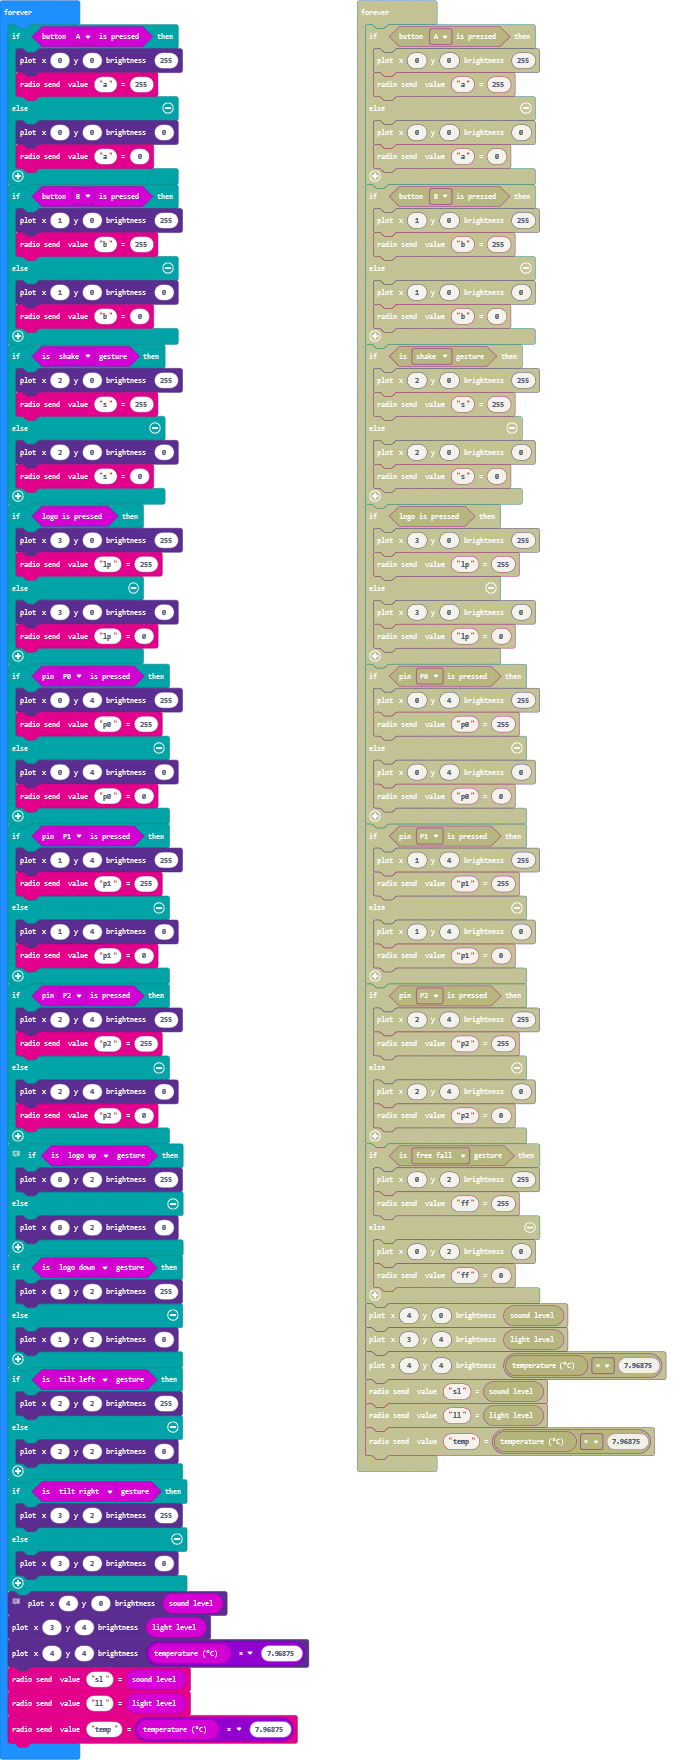
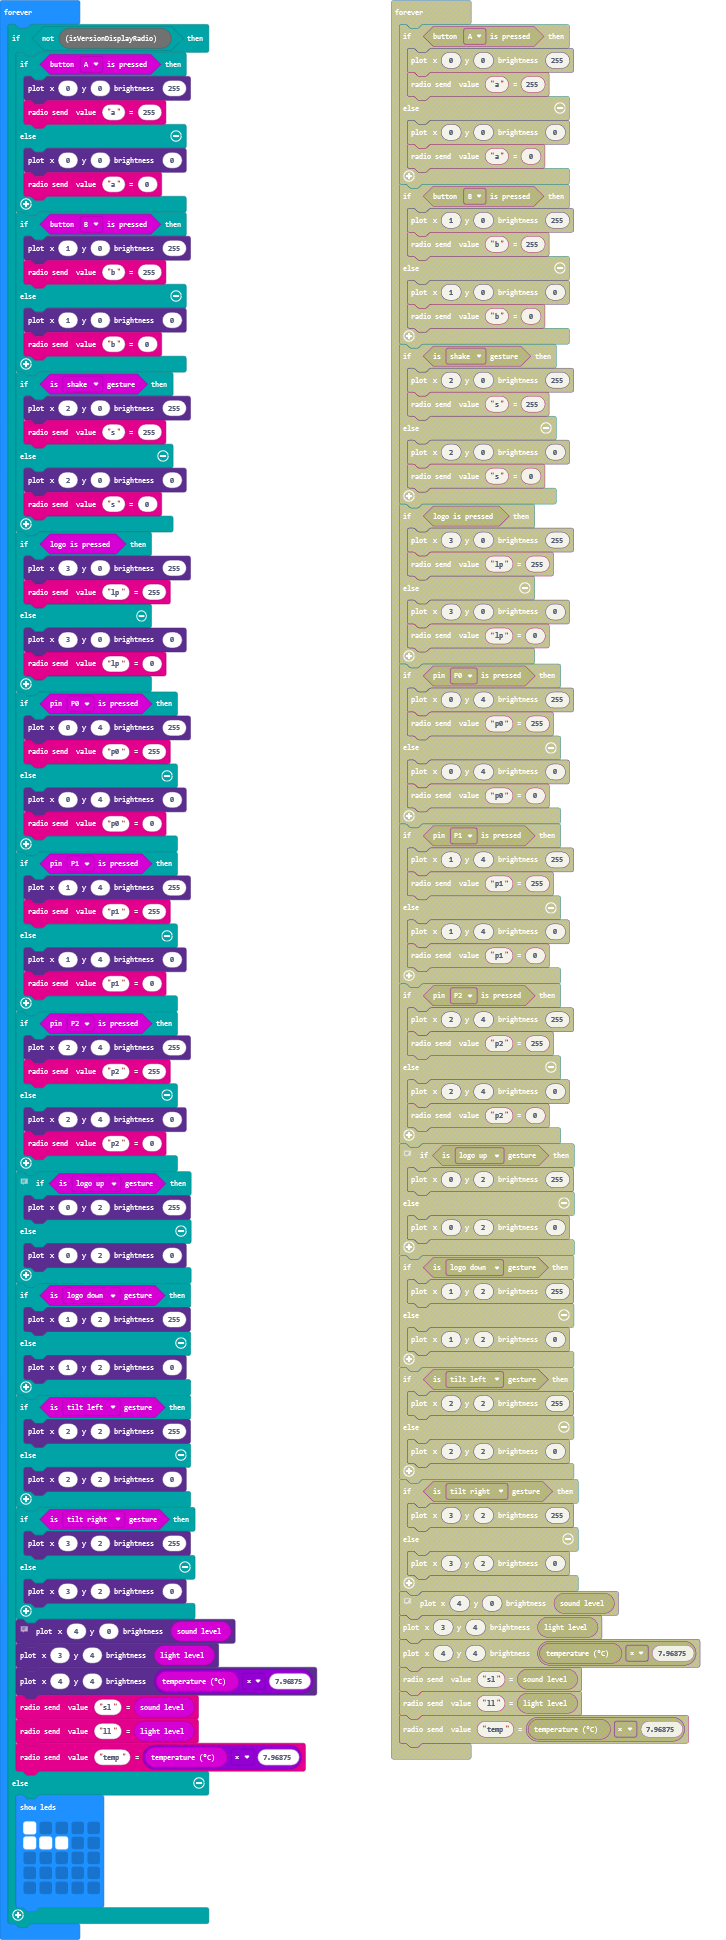
Abandon VersionChecker

diff --git a/main.ts b/main.ts
@@ -1,110 +1,80 @@
-let isVersionDisplay = false
-
 basic.forever(function () {
-
-    if (!isVersionDisplay) {
-
-        if (input.buttonIsPressed(Button.A)) {
-            led.plotBrightness(0, 0, 255)
-            radio.sendValue("a", 255)
-        } else {
-            led.plotBrightness(0, 0, 0)
-            radio.sendValue("a", 0)
-        }
-
-        if (input.buttonIsPressed(Button.B)) {
-            led.plotBrightness(1, 0, 255)
-            radio.sendValue("b", 255)
-        } else {
-            led.plotBrightness(1, 0, 0)
-            radio.sendValue("b", 0)
-        }
-
-        if (input.isGesture(Gesture.Shake)) {
-            led.plotBrightness(2, 0, 255)
-           radio.sendValue("s", 255)
-        } else {
-            led.plotBrightness(2, 0, 0)
-            radio.sendValue("s", 0)
-        }
-
-        if (input.logoIsPressed()) {
-           led.plotBrightness(3, 0, 255)
-            radio.sendValue("lp", 255)
-        } else {
-            led.plotBrightness(3, 0, 0)
-            radio.sendValue("lp", 0)
-        }
-
-        if (input.pinIsPressed(TouchPin.P0)) {
-            led.plotBrightness(0, 4, 255)
-            radio.sendValue("p0", 255)
-        } else {
-            led.plotBrightness(0, 4, 0)
-            radio.sendValue("p0", 0)
-        }
-
-        if (input.pinIsPressed(TouchPin.P1)) {
-            led.plotBrightness(1, 4, 255)
-            radio.sendValue("p1", 255)
-        } else {
-            led.plotBrightness(1, 4, 0)
-            radio.sendValue("p1", 0)
-        }
-
-        if (input.pinIsPressed(TouchPin.P2)) {
-            led.plotBrightness(2, 4, 255)
-            radio.sendValue("p2", 255)
-        } else {
-            led.plotBrightness(2, 4, 0)
-            radio.sendValue("p2", 0)
-        }
-
-        // These last few ifs have no radio sending, 
-        // this is because we don't have the space on the line to send the data over to another Micro:Bit
-
-        if (input.isGesture(Gesture.LogoUp)) {
-            led.plotBrightness(0, 2, 255)
-        } else {
-            led.plotBrightness(0, 2, 0)
-        }
-
-        if (input.isGesture(Gesture.LogoDown)) {
-            led.plotBrightness(1, 2, 255)
-        } else {
-            led.plotBrightness(1, 2, 0)
-        }
-
-        if (input.isGesture(Gesture.TiltLeft)) {
-            led.plotBrightness(2, 2, 255)
-        } else {
-            led.plotBrightness(2, 2, 0)
-        }
-
-        if (input.isGesture(Gesture.TiltRight)) {
-            led.plotBrightness(3, 2, 255)
-        } else {
-            led.plotBrightness(3, 2, 0)
-        }
-
-        // No pixel setting on 4, 2 because the events I had planned didn't work, unfortunately.
-
-        led.plotBrightness(4, 0, input.soundLevel())
-        led.plotBrightness(3, 4, input.lightLevel())
-        led.plotBrightness(4, 4, input.temperature() * 7.96875)
-
-        radio.sendValue("sl", input.soundLevel())
-        radio.sendValue("ll", input.lightLevel())
-        radio.sendValue("temp", input.temperature() * 7.96875)
+    if (input.buttonIsPressed(Button.A)) {
+        led.plotBrightness(0, 0, 255)
+        radio.sendValue("a", 255)
+    } else {
+        led.plotBrightness(0, 0, 0)
+        radio.sendValue("a", 0)
     }
-})
-
-input.onButtonPressed(Button.AB, function() {
-
-    isVersionDisplay = true
-
-    basic.showString("1.0")
-
-    isVersionDisplay = false
-    
+    if (input.buttonIsPressed(Button.B)) {
+        led.plotBrightness(1, 0, 255)
+        radio.sendValue("b", 255)
+    } else {
+        led.plotBrightness(1, 0, 0)
+        radio.sendValue("b", 0)
+    }
+    if (input.isGesture(Gesture.Shake)) {
+        led.plotBrightness(2, 0, 255)
+        radio.sendValue("s", 255)
+    } else {
+        led.plotBrightness(2, 0, 0)
+        radio.sendValue("s", 0)
+    }
+    if (input.logoIsPressed()) {
+        led.plotBrightness(3, 0, 255)
+        radio.sendValue("lp", 255)
+    } else {
+        led.plotBrightness(3, 0, 0)
+        radio.sendValue("lp", 0)
+    }
+    if (input.pinIsPressed(TouchPin.P0)) {
+        led.plotBrightness(0, 4, 255)
+        radio.sendValue("p0", 255)
+    } else {
+        led.plotBrightness(0, 4, 0)
+        radio.sendValue("p0", 0)
+    }
+    if (input.pinIsPressed(TouchPin.P1)) {
+        led.plotBrightness(1, 4, 255)
+        radio.sendValue("p1", 255)
+    } else {
+        led.plotBrightness(1, 4, 0)
+        radio.sendValue("p1", 0)
+    }
+    if (input.pinIsPressed(TouchPin.P2)) {
+        led.plotBrightness(2, 4, 255)
+        radio.sendValue("p2", 255)
+    } else {
+        led.plotBrightness(2, 4, 0)
+        radio.sendValue("p2", 0)
+    }
+    // These last few ifs have no radio sending,
+    // this is because we don't have the space on the line to send the data over to another Micro:Bit
+    if (input.isGesture(Gesture.LogoUp)) {
+        led.plotBrightness(0, 2, 255)
+    } else {
+        led.plotBrightness(0, 2, 0)
+    }
+    if (input.isGesture(Gesture.LogoDown)) {
+        led.plotBrightness(1, 2, 255)
+    } else {
+        led.plotBrightness(1, 2, 0)
+    }
+    if (input.isGesture(Gesture.TiltLeft)) {
+        led.plotBrightness(2, 2, 255)
+    } else {
+        led.plotBrightness(2, 2, 0)
+    }
+    if (input.isGesture(Gesture.TiltRight)) {
+        led.plotBrightness(3, 2, 255)
+    } else {
+        led.plotBrightness(3, 2, 0)
+    }
+    // No pixel setting on 4, 2 because the events I had planned didn't work, unfortunately.
+    led.plotBrightness(4, 0, input.soundLevel())
+    led.plotBrightness(3, 4, input.lightLevel())
+    led.plotBrightness(4, 4, input.temperature() * 7.96875)
+    radio.sendValue("sl", input.soundLevel())
+    radio.sendValue("ll", input.lightLevel())
+    radio.sendValue("temp", input.temperature() * 7.96875)
 })
